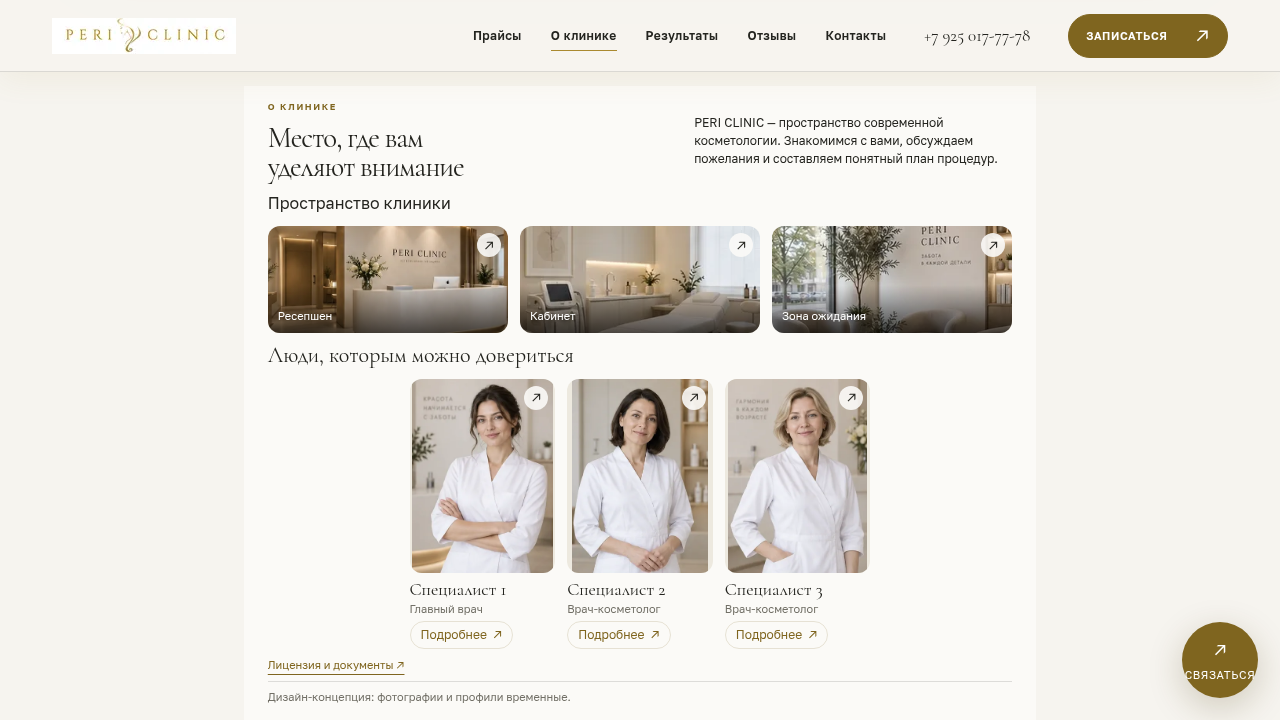
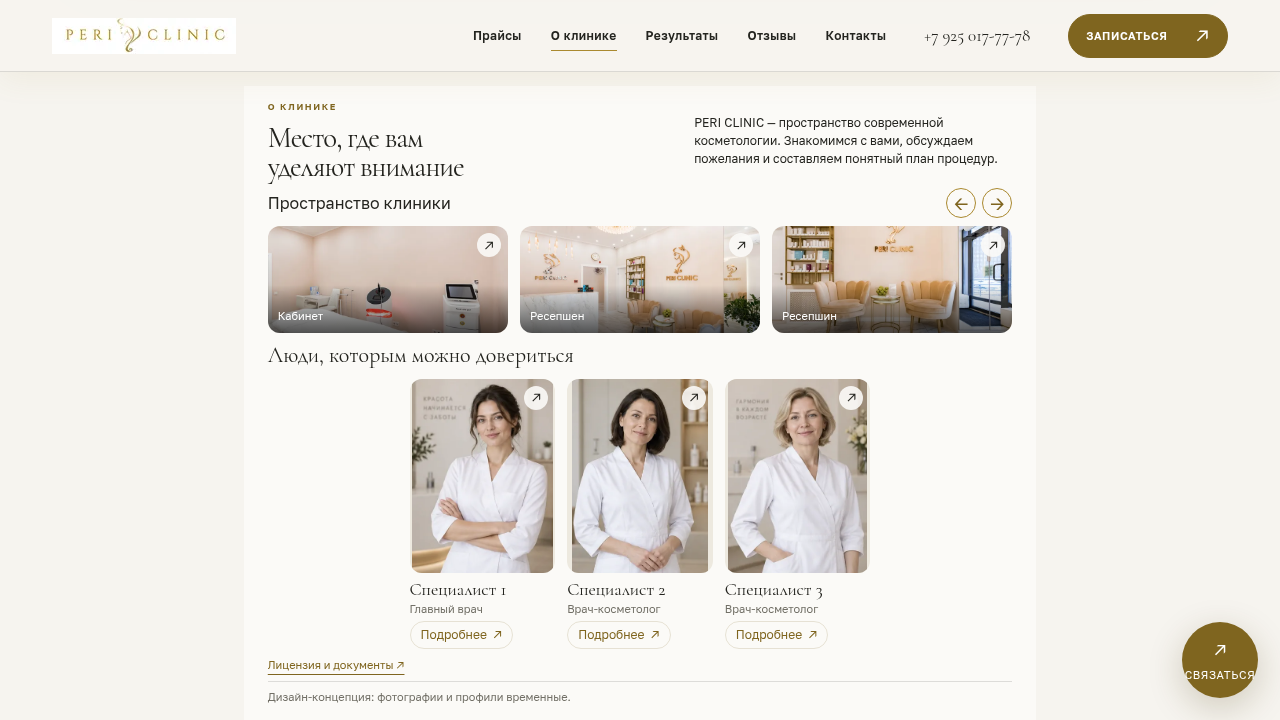
Verify desktop viewport fix on production

Changed region(s): [[0.1875, 0.275, 0.8125, 0.4889]]

diff --git a/docs/qa/about-desktop-viewport/README.md b/docs/qa/about-desktop-viewport/README.md
@@ -21,3 +21,7 @@ node scripts/qa/about-clinic.mjs http://127.0.0.1:4332
 ```
 
 Сравнение мобильных изображений выполнялось до публикации исправления, с прежним сайтом в качестве базы. Результаты измерений — `checks.json`; снимки всего окна — `desktop-*.png`.
+
+Публикация 13 сентября 2026: код `9d9a8bc`, релиз `/srv/peri/releases/2026-09-13T09-53-56`, предыдущий релиз `/srv/peri/releases/2026-09-13T09-51-30`. На https://peri.zumrudin.ru повторно прошли проверки всех шести размеров окна, перехода из шапки и галереи из семи специалистов с JavaScript и без него. Проверка axe для настольного блока: 0 нарушений.
+
+После публикации `about-clinic.mjs` проверяет подписи фотографий по текущим данным страницы: порядок кабинетов меняется через CMS и не должен быть зашит в тесте. Повторный мобильный прогон на рабочем сайте проверяет стабильность снимков; доказательство отсутствия изменения мобильной вёрстки — сравнение с прежним сайтом, выполненное до публикации. Снимки в этой папке обновлены с рабочего сайта.
